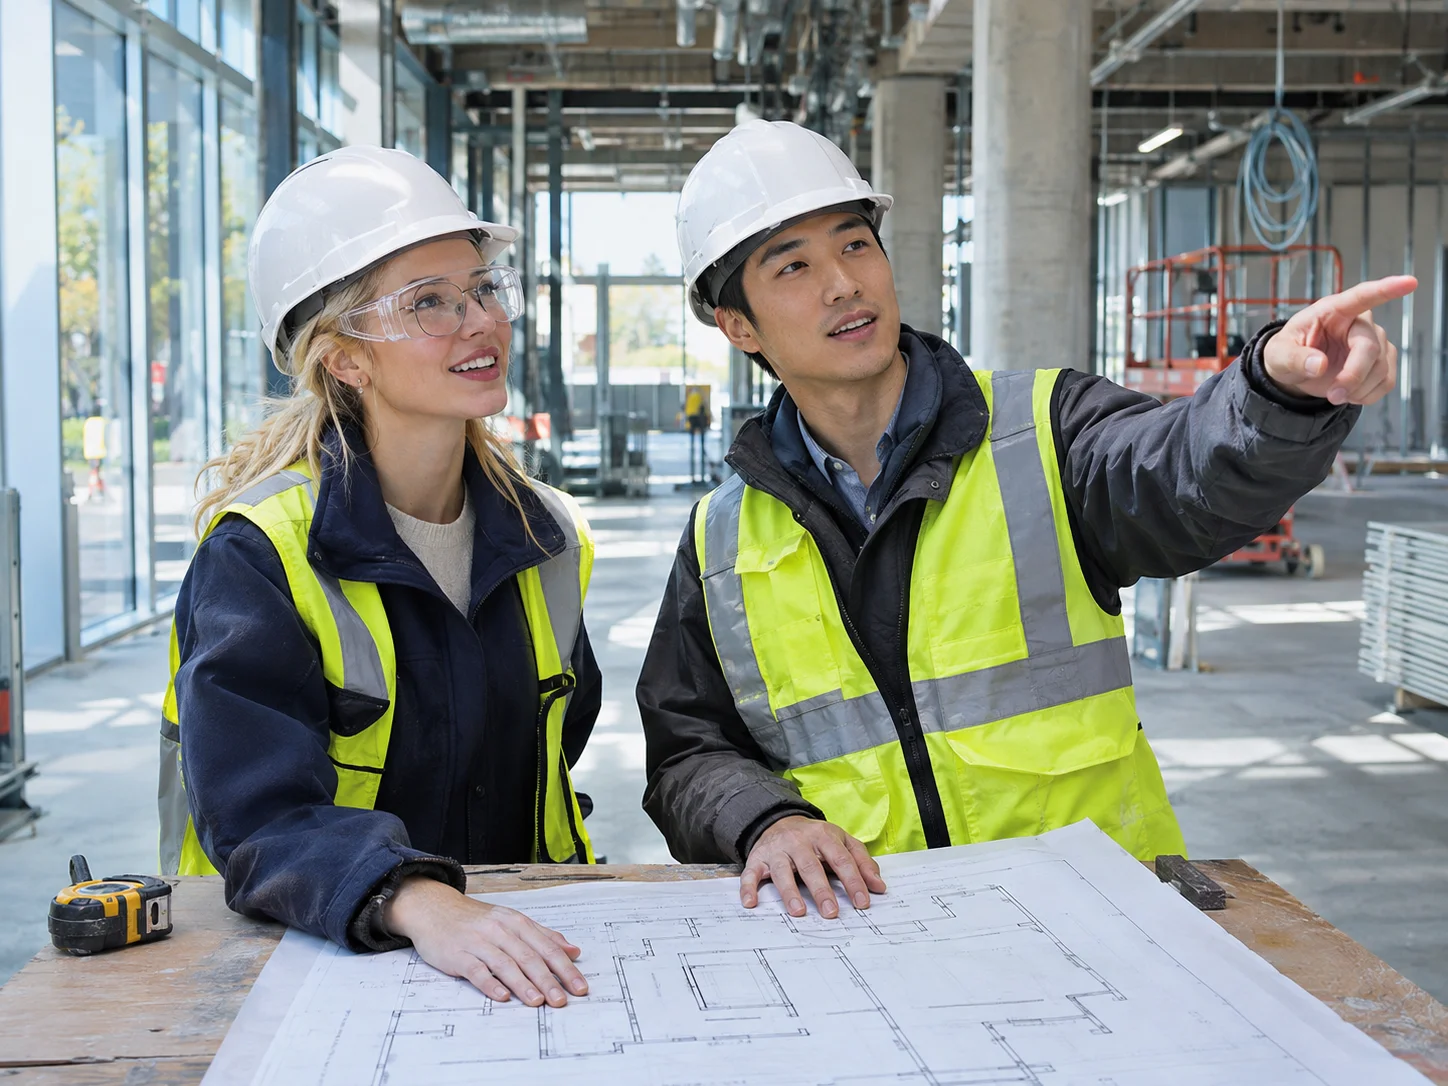
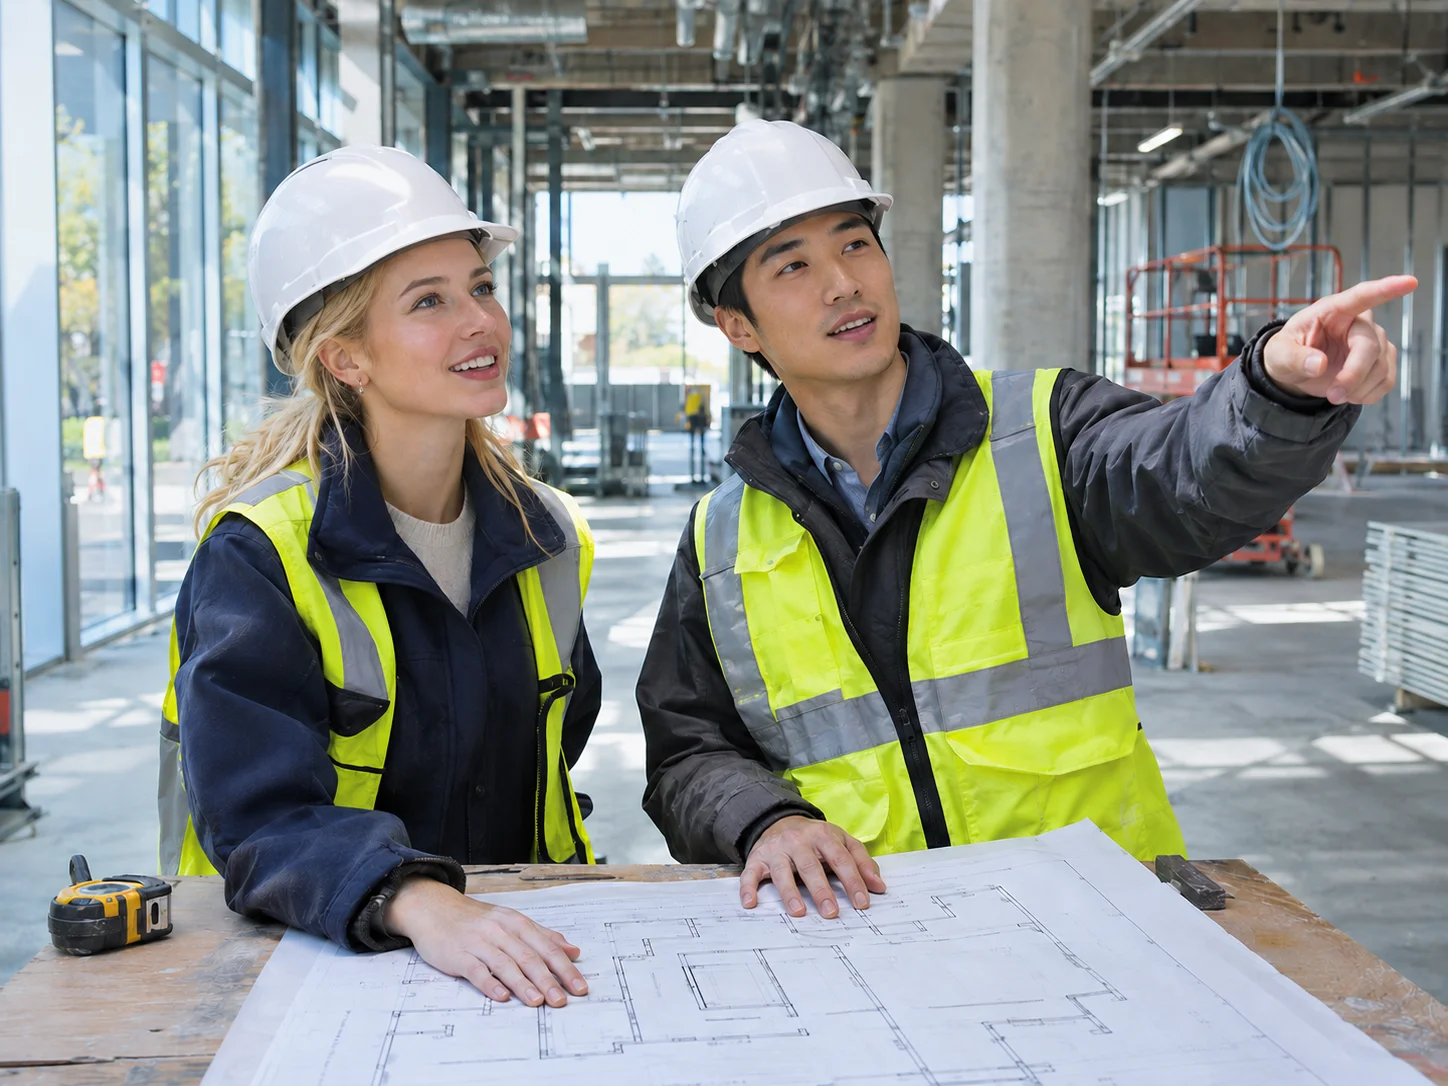
Update the project inspection portrait without glasses

diff --git a/index.html b/index.html
@@ -9,7 +9,7 @@
   <title>Michigan Academy of Innovation and Creativity | MAIC</title>
   <link rel="stylesheet" href="./styles.css?v=gold-frame-1" />
   <link rel="stylesheet" href="./experience.css?v=gold-frame-1" />
-  <link rel="stylesheet" href="./courses.css?v=project-photo" />
+  <link rel="stylesheet" href="./courses.css?v=project-photo-2" />
   <link rel="stylesheet" href="./enrollment.css?v=gold-frame-1" />
   <link rel="stylesheet" href="./michigan-gallery.css?v=gold-frame-1" />
   <link rel="stylesheet" href="./academic-advisor.css?v=gold-frame-1" />

diff --git a/courses.css b/courses.css
@@ -79,4 +79,4 @@
 @media(max-width:830px){.maic-mode-filter-list{grid-template-columns:repeat(2,minmax(0,1fr))}}
 @media(max-width:520px){.maic-mode-filter-list{grid-template-columns:1fr;gap:18px}.maic-mode-filter-item{gap:5px}}
 
-.maic-course-photo-project-management{background-image:url('./assets/course-project-management.webp');background-size:cover;background-position:center}
+.maic-course-photo-project-management{background-image:url('./assets/course-project-management.webp?v=2');background-size:cover;background-position:center}
